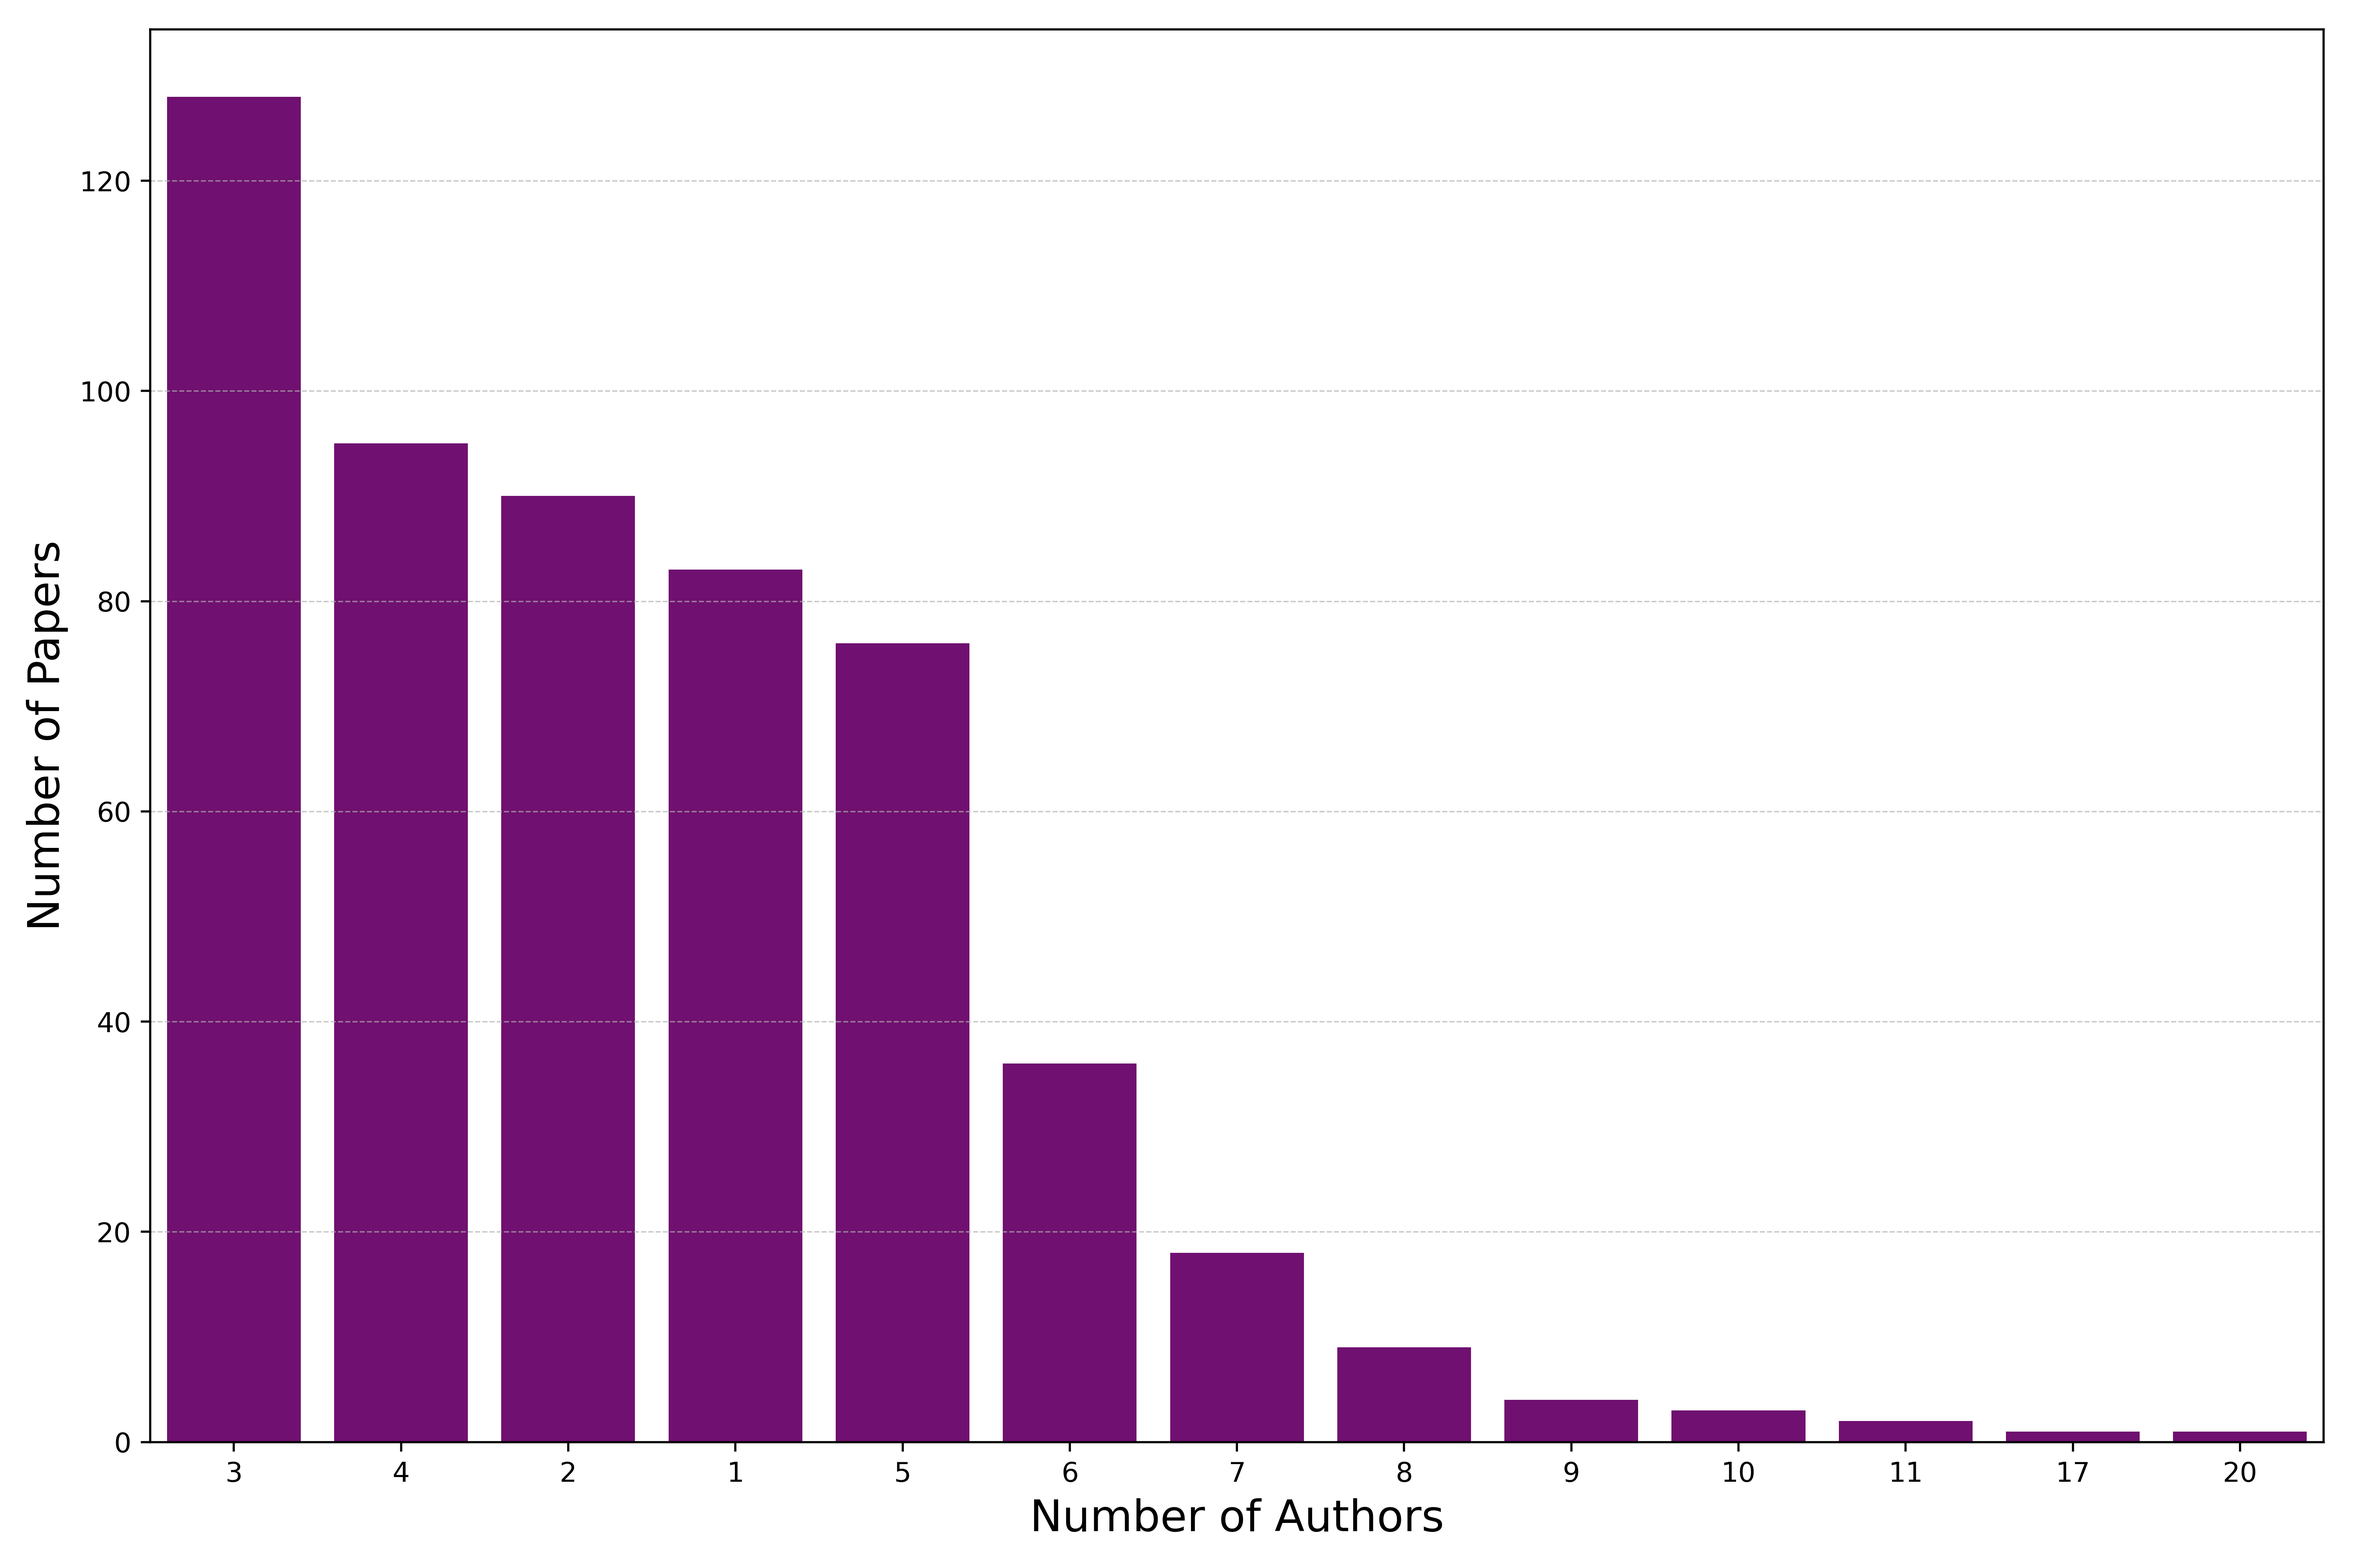
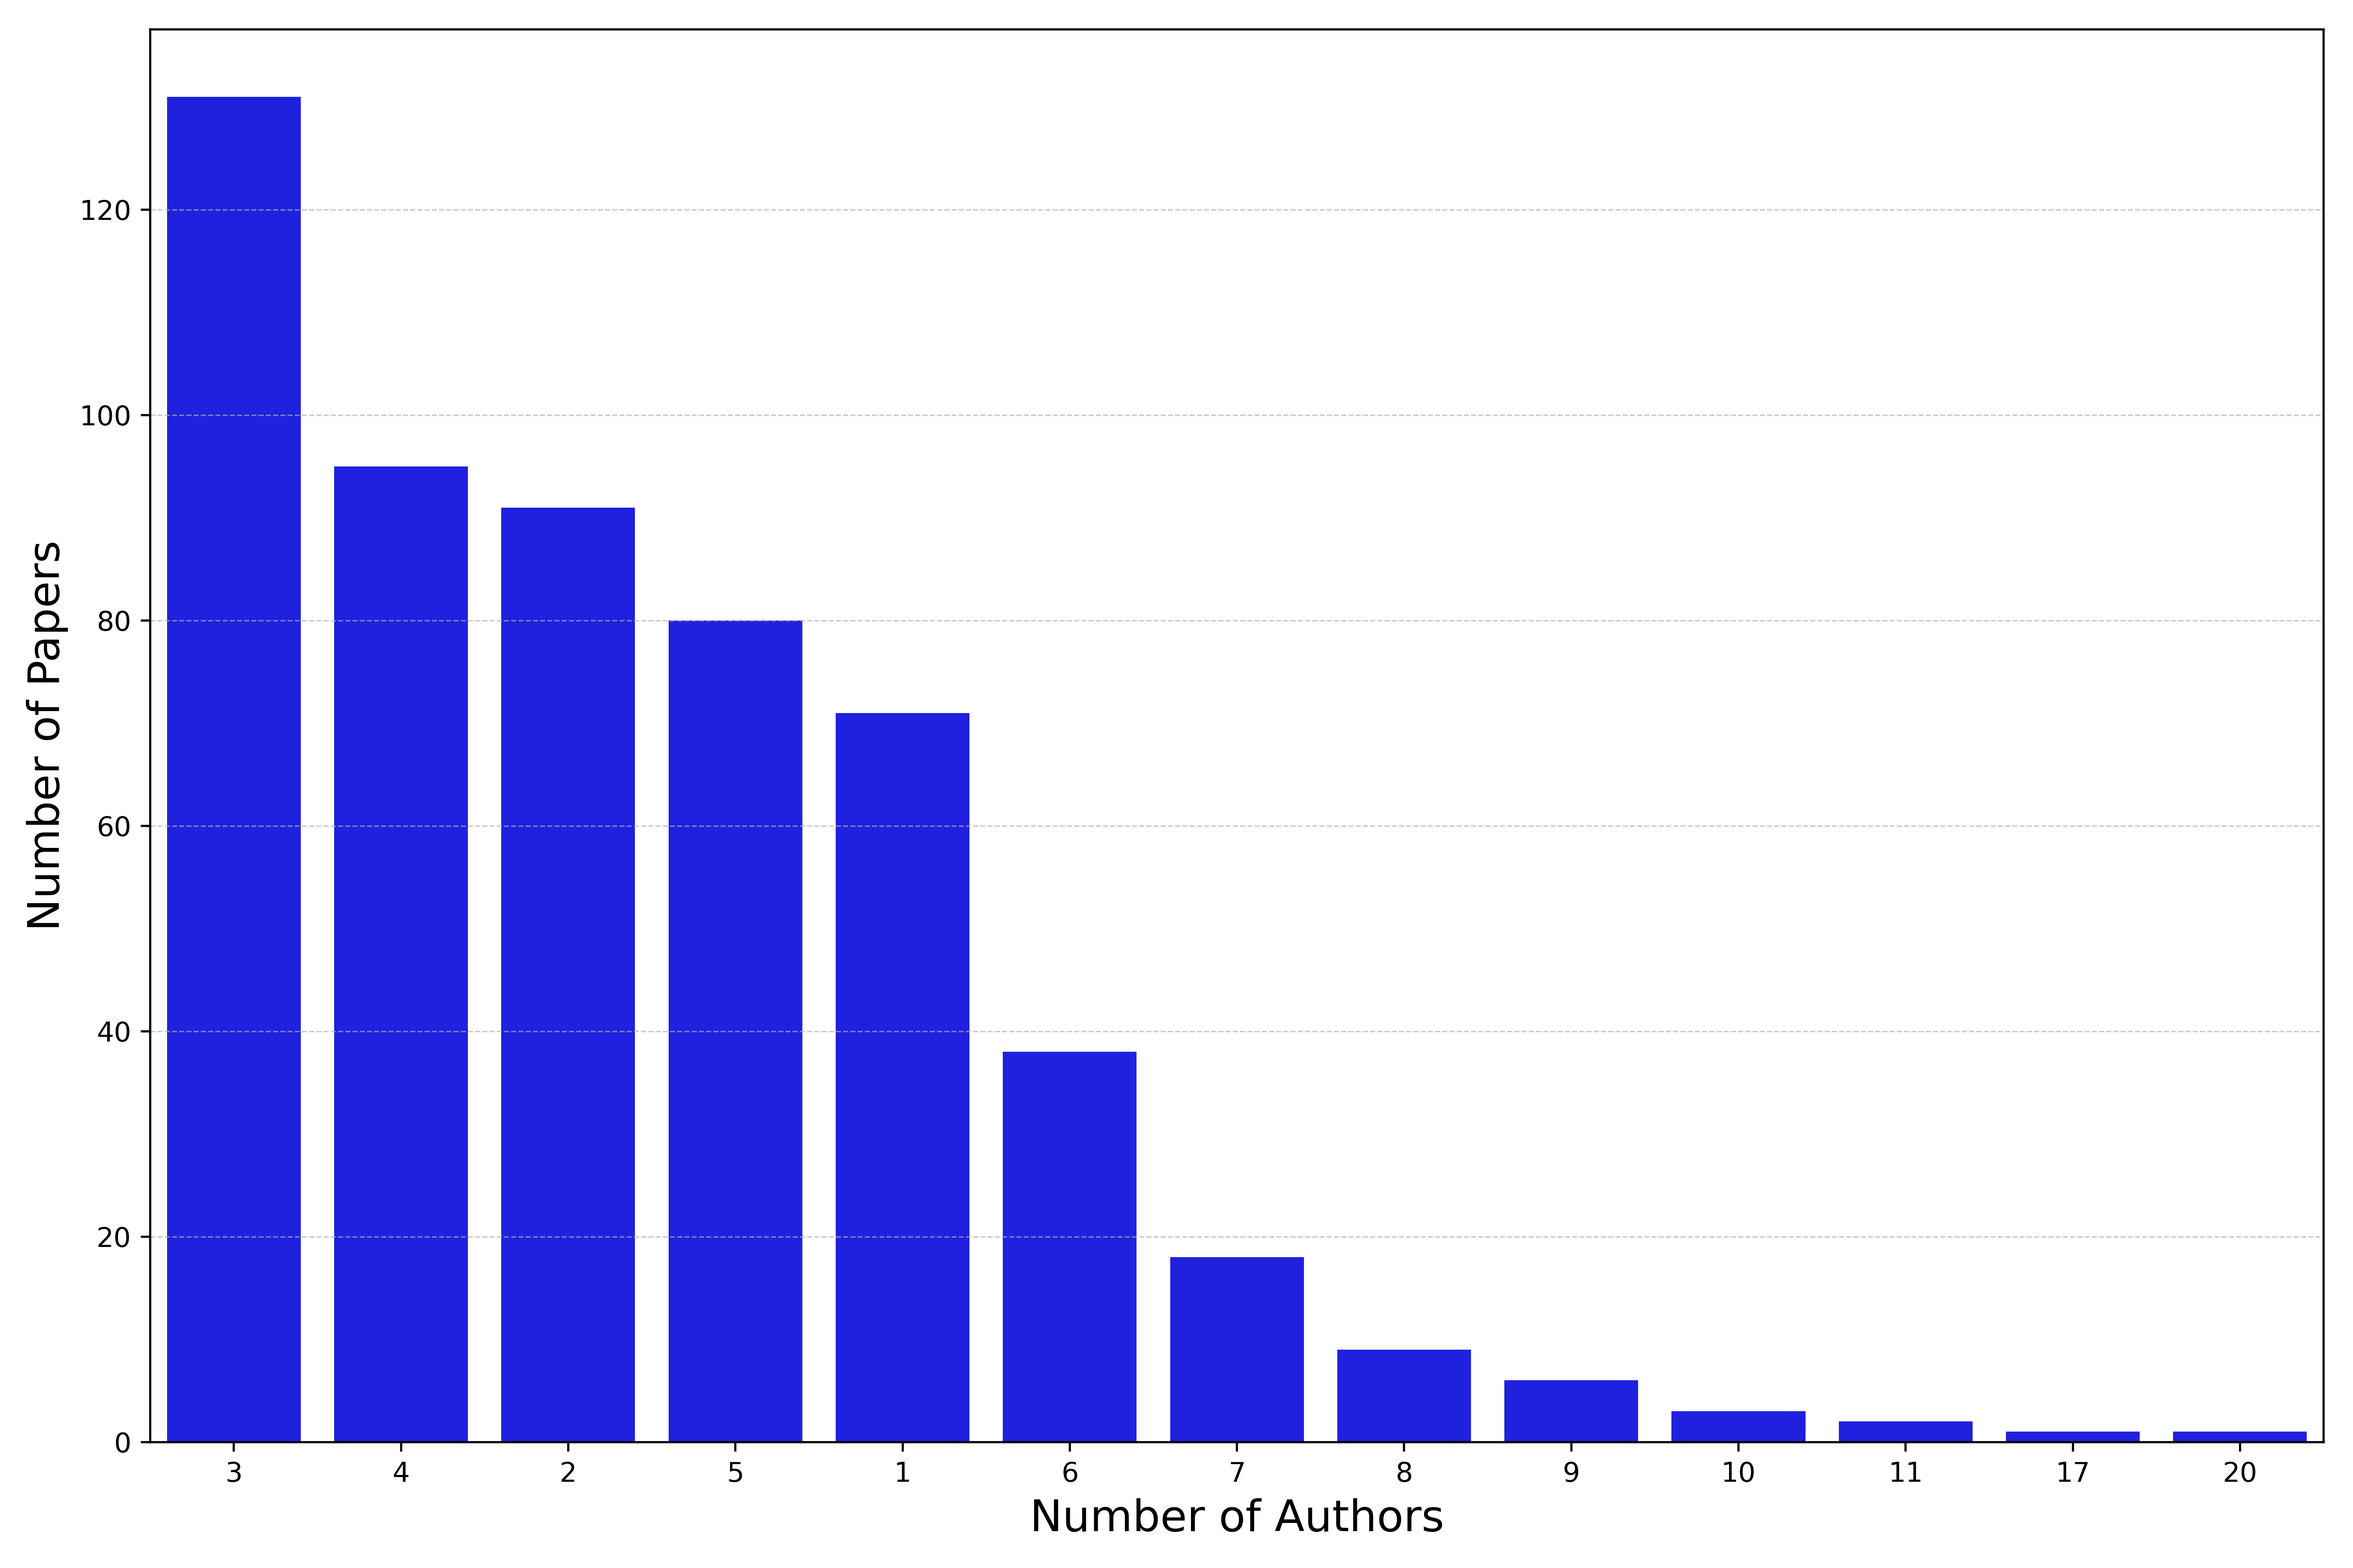
Issue Fixed. All graphs are set to blue colors

Changed region(s): [[0.0312, 0.0625, 0.9662, 0.9375]]

diff --git a/chart-gen.py b/chart-gen.py
@@ -2,15 +2,13 @@ import pandas as pd
 import matplotlib.pyplot as plt
 import seaborn as sns
 
-
-
 def save_plot_publications_by_year(data):
     # Clean non-integer values and convert to integer
     data['Publication Year'] = pd.to_numeric(data['Publication Year'], errors='coerce').dropna().astype(int)
     
     plt.figure(figsize=(13, 9))
     year_counts = data['Publication Year'].value_counts().sort_values(ascending=False)
-    ax = sns.barplot(x=year_counts.index, y=year_counts.values, color='skyblue', order=year_counts.index)
+    ax = sns.barplot(x=year_counts.index, y=year_counts.values, color='blue', order=year_counts.index)
     
     plt.ylabel("Number of Papers", fontsize=16)
     plt.xlabel("Published Year", fontsize=16)
@@ -21,12 +19,9 @@ def save_plot_publications_by_year(data):
     plt.savefig("publications_by_year.png", dpi=500)
     plt.close()
 
-
-
-
 def save_plot_papers_by_type(data):
     plt.figure(figsize=(12, 8))
-    ax = sns.countplot(data=data, x='Item Type', order=data['Item Type'].value_counts().index, color="brown")
+    ax = sns.countplot(data=data, x='Item Type', order=data['Item Type'].value_counts().index, color="blue")
     plt.ylabel("Number of Papers", fontsize=16)
     plt.xlabel("Publication Type", fontsize=16)
     plt.xticks(rotation=45, fontsize=16)
@@ -42,7 +37,7 @@ def save_plot_authors_per_paper(data):
     data['Author Count'] = data['Author'].apply(lambda x: len(str(x).split(";")) if pd.notnull(x) else 0)
     author_count_counts = data['Author Count'].value_counts().sort_values(ascending=False)
     plt.figure(figsize=(12, 8))
-    ax = sns.barplot(x=author_count_counts.index, y=author_count_counts.values, color="purple", order=author_count_counts.index)
+    ax = sns.barplot(x=author_count_counts.index, y=author_count_counts.values, color="blue", order=author_count_counts.index)
     plt.ylabel("Number of Papers", fontsize=16)
     plt.xlabel("Number of Authors", fontsize=16)
     
@@ -53,12 +48,11 @@ def save_plot_authors_per_paper(data):
     plt.savefig("authors_per_paper.png", dpi=500)
     plt.close()
 
-
 def save_plot_top_publishers(data):
     top_publishers = data['Publication Title'].value_counts().head(10).index
     filtered_data = data[data['Publication Title'].isin(top_publishers)]
     plt.figure(figsize=(12, 8))
-    sns.countplot(data=filtered_data, y='Publication Title', order=top_publishers, color="yellow")
+    sns.countplot(data=filtered_data, y='Publication Title', order=top_publishers, color="blue")
     plt.xlabel("Number of Papers", fontsize=16)
     plt.ylabel("Publisher", fontsize=16)
     plt.tight_layout()
@@ -76,4 +70,3 @@ def save_driver_function():
 
 # Call the save_driver_function to generate and save all the plots
 save_driver_function()
-
